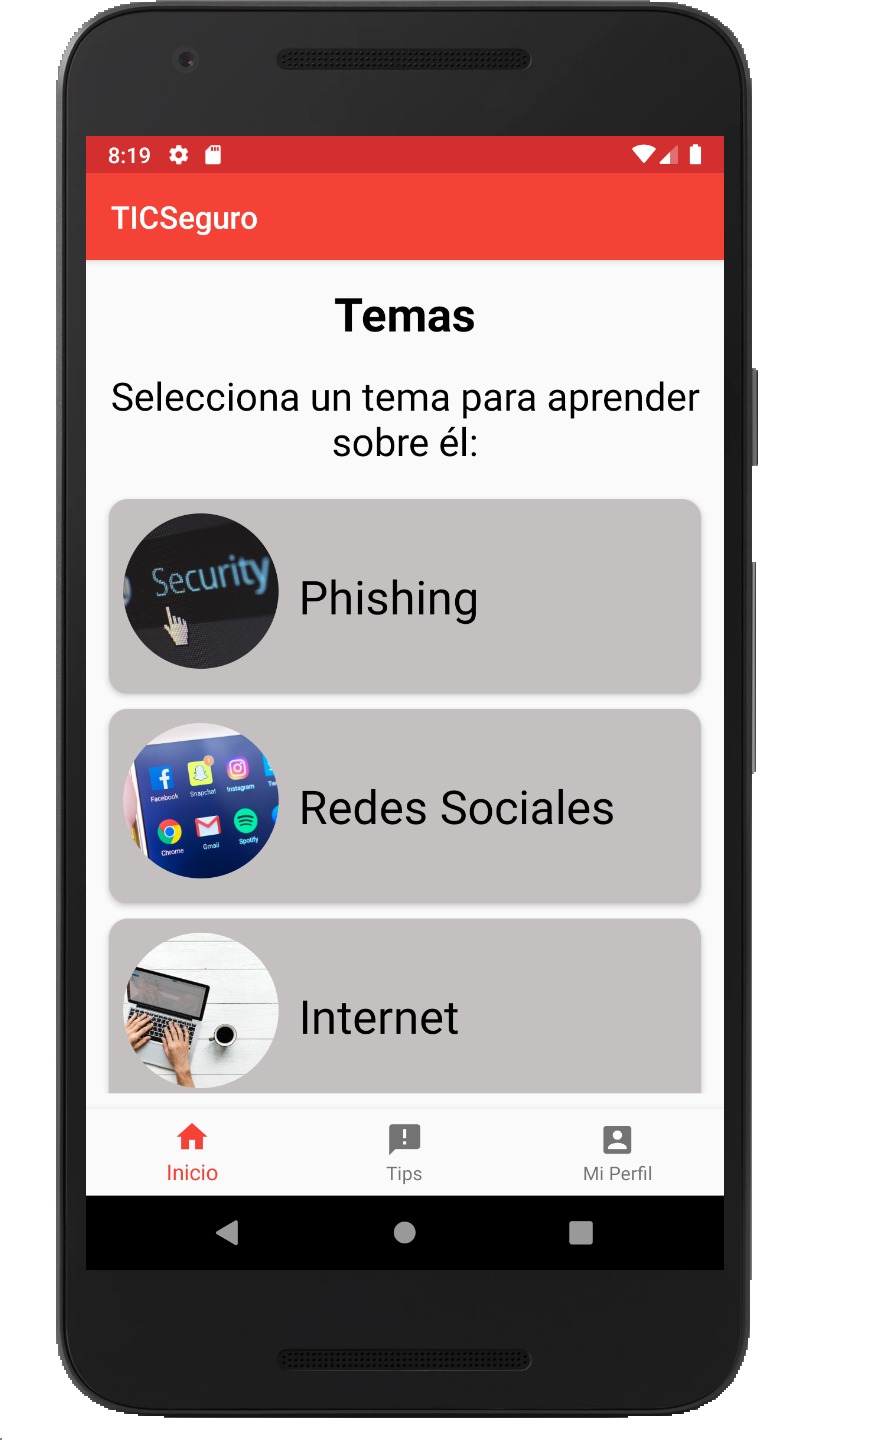
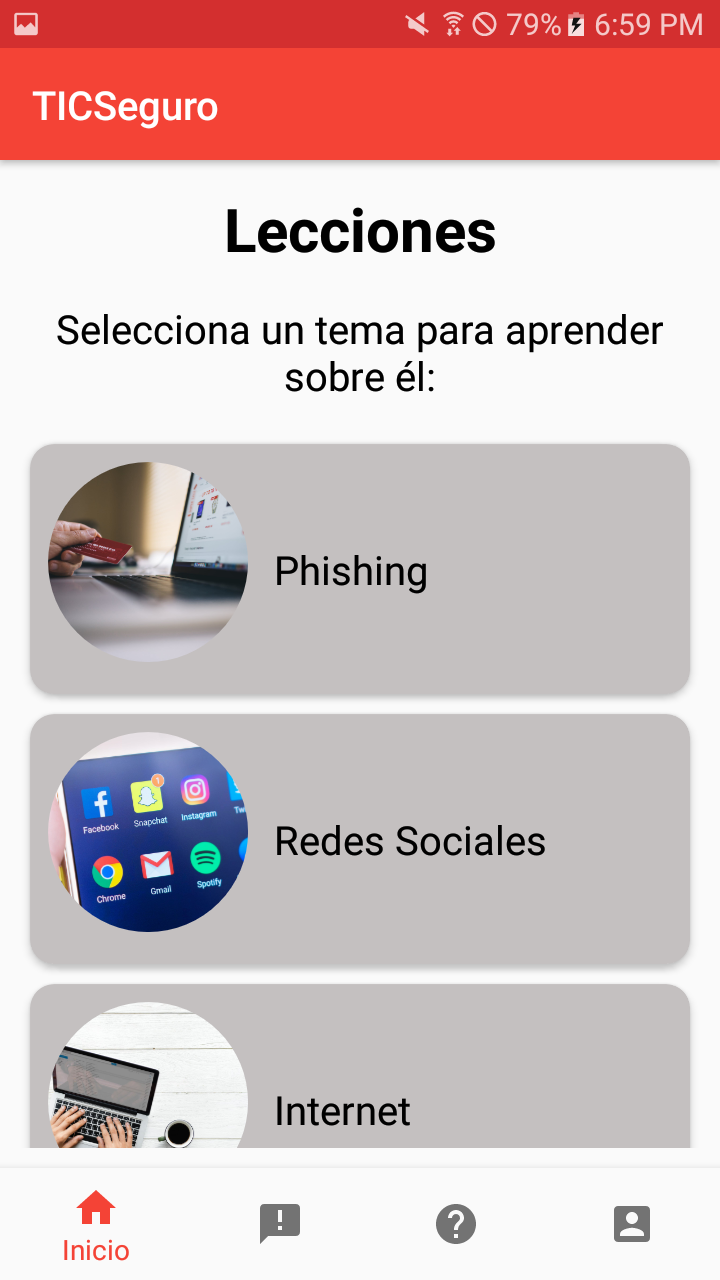
Added more content to README.md and changed images

diff --git a/README.md b/README.md
@@ -1,7 +1,17 @@
 # TICSeguro
 
-TICSeguro is an Android mobile application to help everyone learn about Information Security.
+## Descripción del Trabajo
+
+TICSeguro es una aplicación móvil educativa para dispositivos móviles con sistema operativo Android 6.0 (nivel de API 23) o superior, dirigida a Usuarios Regulares para que puedan fortalecer sus conocimientos de Seguridad Informática.
+
+Este es el splash screen:
 
 ![TICSeguro splash screen](https://github.com/JulioPoveda/TICSeguro/blob/master/images/TICSeguro_splash_screen.png?raw=true)
 
+Este es el menú principal:
+
 ![TICSeguro main menu](https://github.com/JulioPoveda/TICSeguro/blob/master/images/TICSeguro_main_menu.png?raw=true)
+
+## Licencia
+
+Este proyecto es open source, y tiene la licencia MIT.
